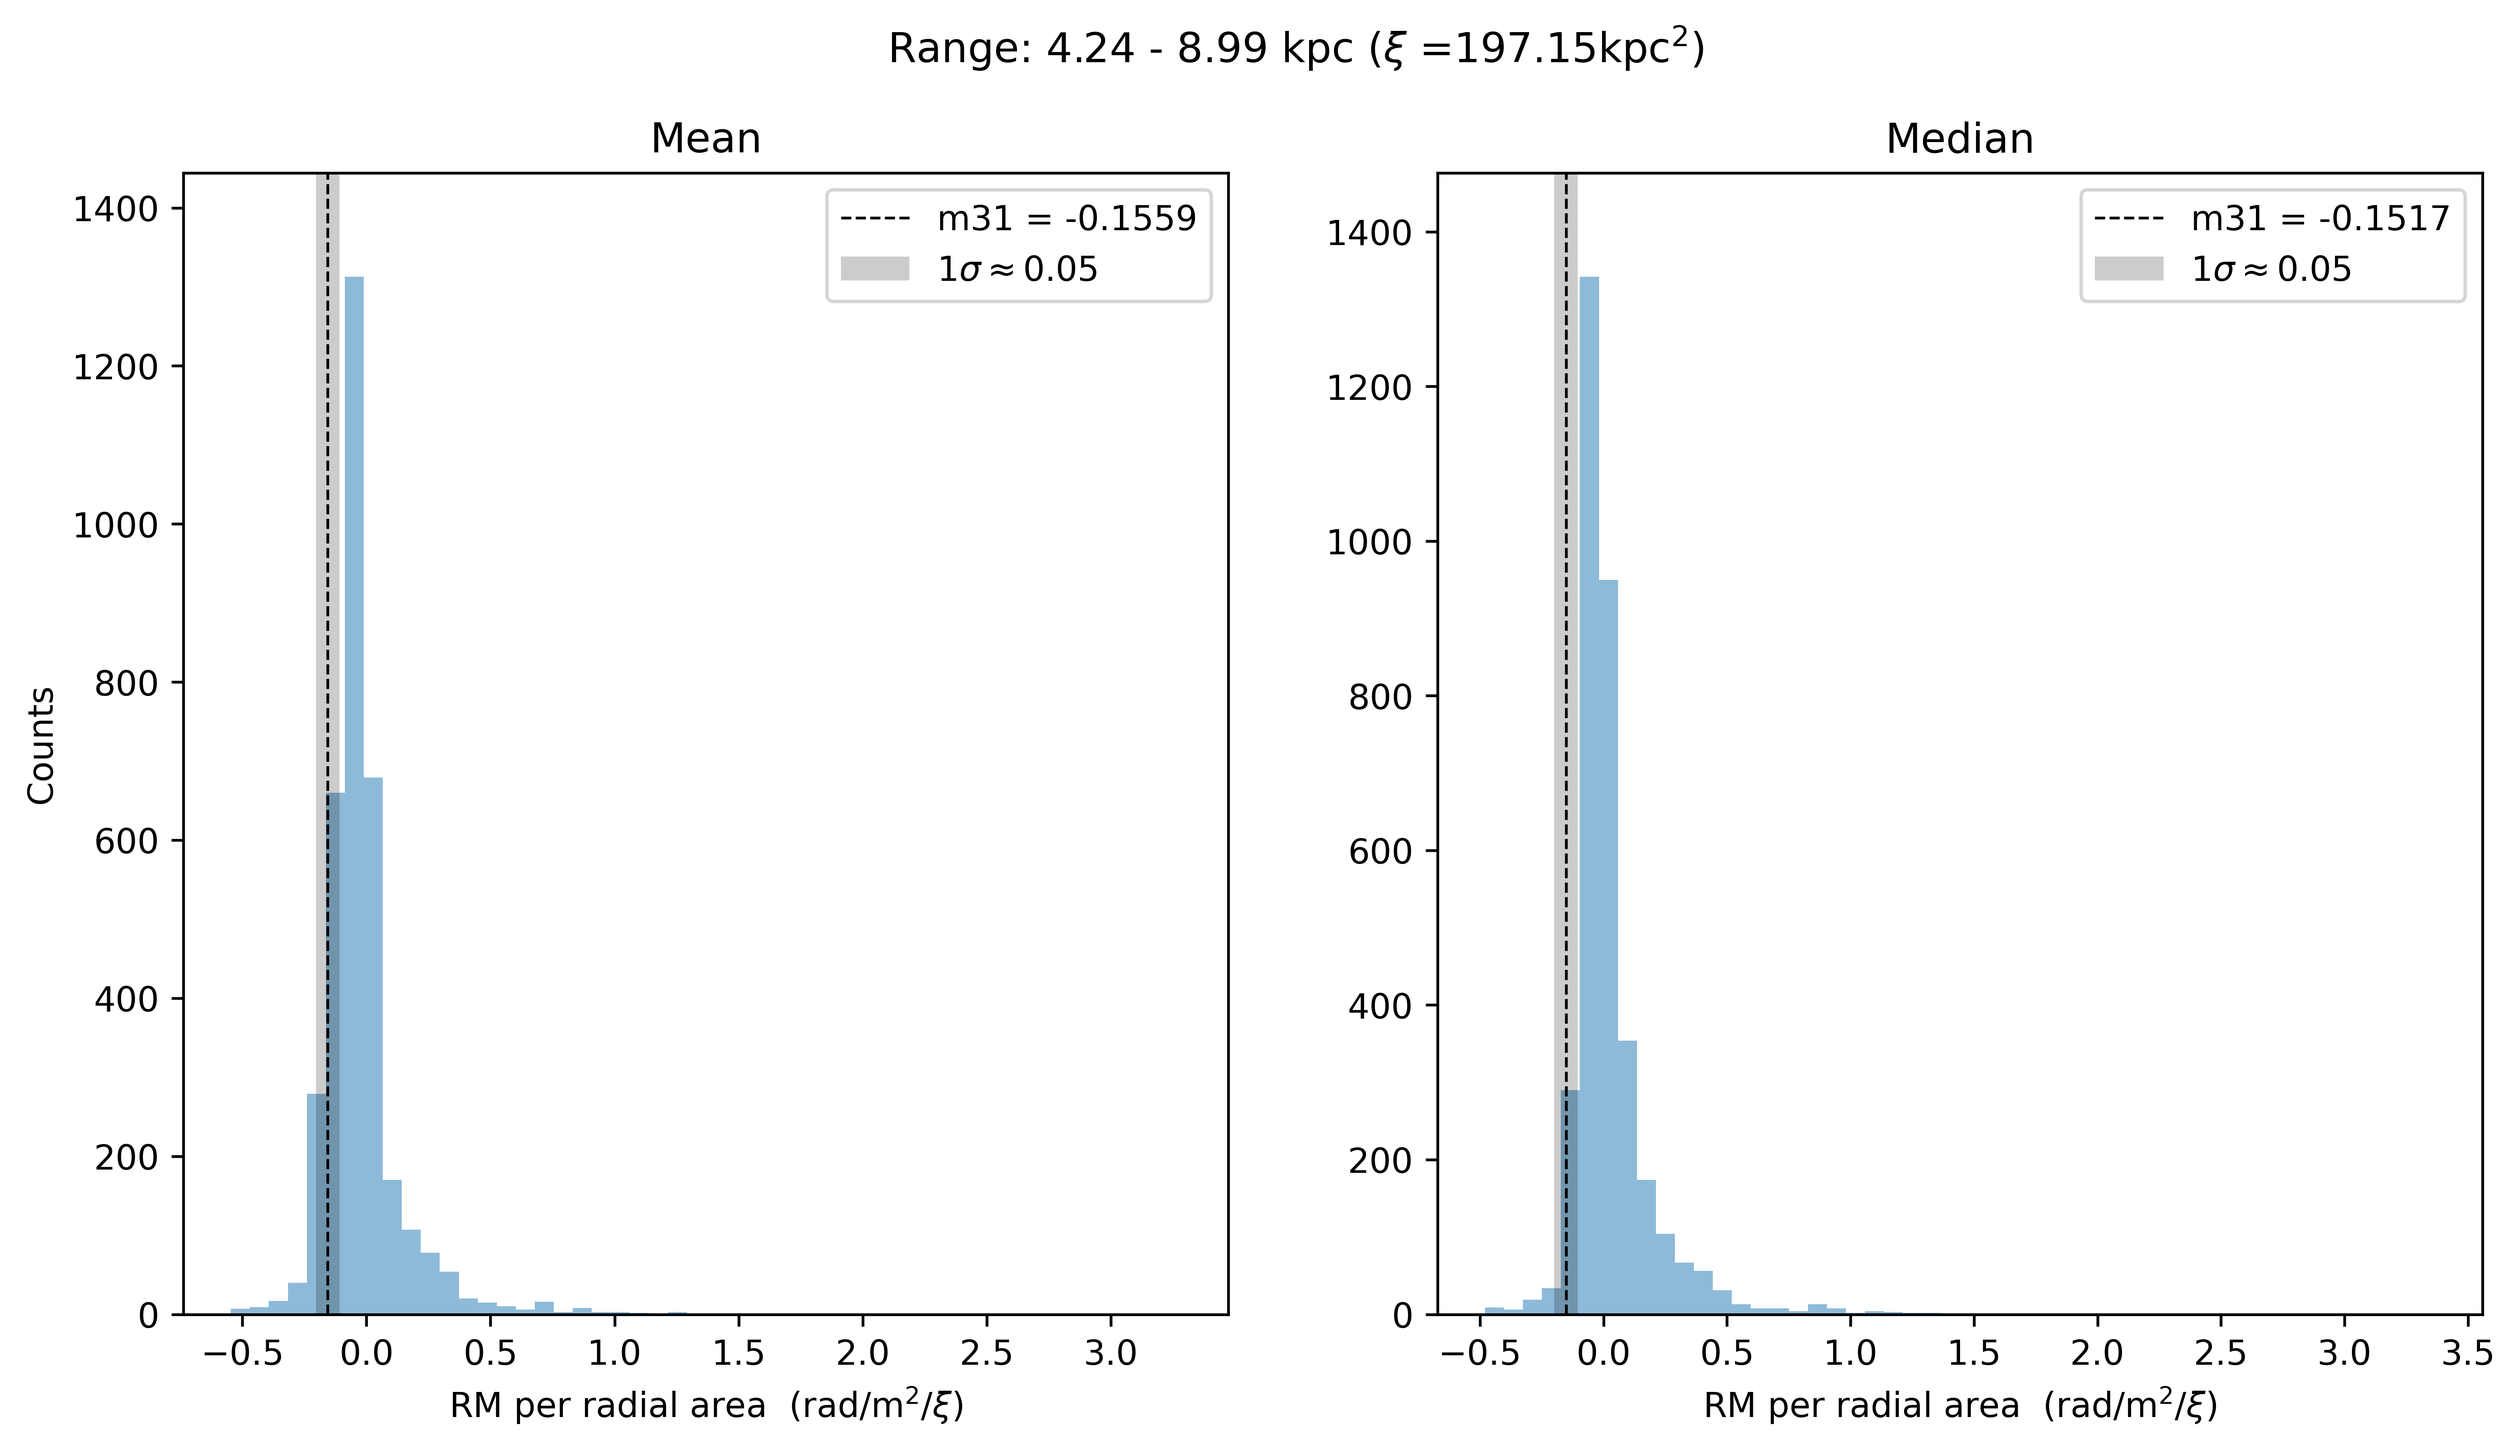
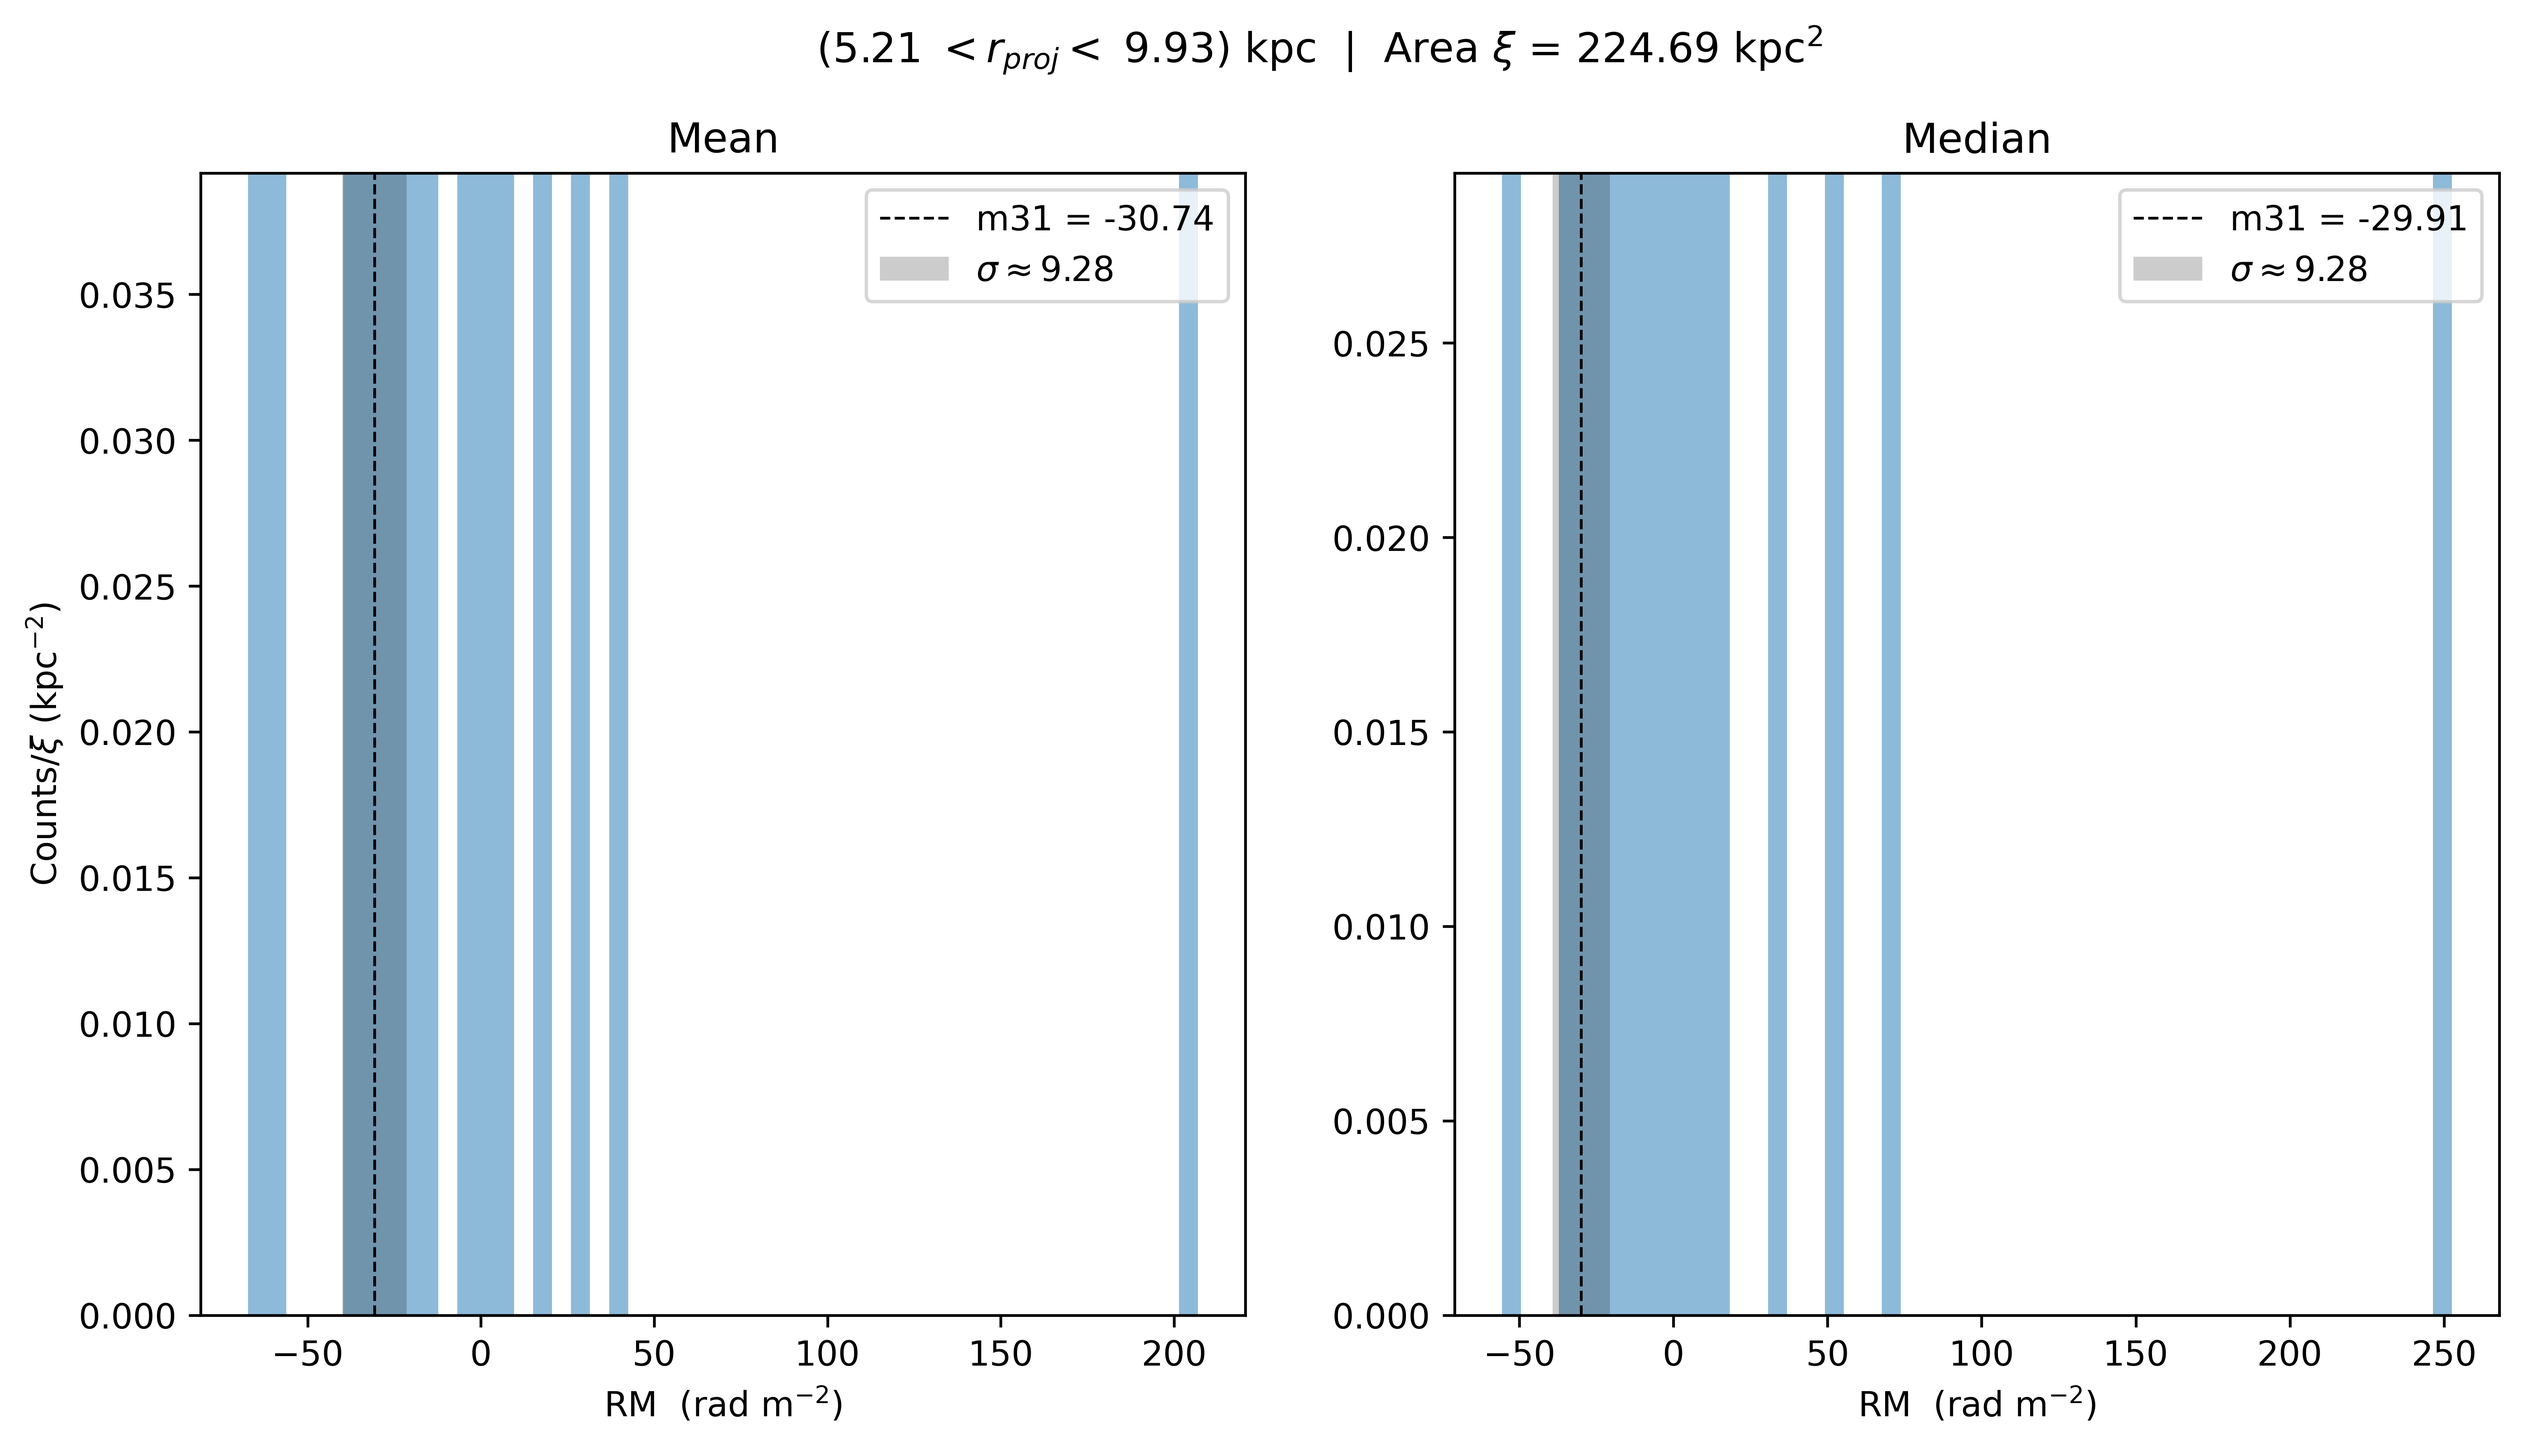
dividing counts by annulus area. Not the RM

diff --git a/M31_signal_vs_entire_sky.py b/M31_signal_vs_entire_sky.py
@@ -243,8 +243,8 @@ def annuli_analysis(save_plot=False, stack_indiv_patch=False):
         rm_per_annulus_median = {i: [] for i in range(1, len(bin_edges)+1)}  # Dictionary to store RM values for each bin (median)
 
         for i, bin_idx in enumerate(bin_indices):
-            rm_per_annulus_mean[bin_idx].append(rm_vals_flat_mean[i]/annul_area)  # Append RM values for mean to corresponding bin
-            rm_per_annulus_median[bin_idx].append(rm_vals_flat_median[i]/annul_area)  # Append RM values for median to corresponding bin
+            rm_per_annulus_mean[bin_idx].append(rm_vals_flat_mean[i])  # Append RM values for mean to corresponding bin
+            rm_per_annulus_median[bin_idx].append(rm_vals_flat_median[i])  # Append RM values for median to corresponding bin
 
         # Converting lists to numpy arrays for easier handling
         rm_per_annulus_mean = {k: np.array(v) for k, v in rm_per_annulus_mean.items() if len(v) > 0}
@@ -255,7 +255,7 @@ def annuli_analysis(save_plot=False, stack_indiv_patch=False):
         else: 
             annuli_to_plot = np.arange(0, bin_num_from_main+1)  # Adjusting annuli ranges based on bin edges (in kpc)
 
-        anul_dist_type = "deg" if stack_indiv_patch else "kpc"
+        annul_dist_type = "deg" if stack_indiv_patch else "kpc"
         b_m_1 = bin_means_m31 if stack_indiv_patch else bin_means_past_rvir
         b_m_2 = bin_med_m31 if stack_indiv_patch else bin_meds_past_rvir
         std = bin_std_m31 if stack_indiv_patch else bin_std_past_rvir #assuming same standard deviation
@@ -264,53 +264,61 @@ def annuli_analysis(save_plot=False, stack_indiv_patch=False):
         for bin_idx in annuli_to_plot:
             fig, axes = plt.subplots(1, 2, figsize=(12, 6))  # Create 1x2 subplot grid
             
-            x_axis_label = r" (rad/m$^{2}$/$\xi$)"
+            x_axis_label = r" (rad m$^{-2}$)"
             histbin = 50 #number of beans per histogram's RM-axis (x-axis)
             if bin_idx in rm_per_annulus_mean and bin_idx in rm_per_annulus_median:
 
-                # Plot for "Mean" subplot (left side)
-                counts, _, _ = axes[0].hist(rm_per_annulus_mean[bin_idx], bins=histbin, alpha=0.5)
+                # Plotting for "Mean" subplot (left side)
+                counts, _, patches_mean = axes[0].hist(rm_per_annulus_mean[bin_idx], bins=histbin, alpha=0.5)
                 axes[0].set_title("Mean")
-                axes[0].set_xlabel("RM per radial area " +  x_axis_label)
-                axes[0].set_ylabel("Counts")
+                axes[0].set_xlabel("RM " +  x_axis_label)
+                axes[0].set_ylabel("Counts" + r"/$\xi$" + f" ({annul_dist_type}"+ r"$^{-2}$)")
+                
+                #dividing Counts of Mean by Annulus Area
+                for p in patches_mean: p.set_height(p.get_height() / annul_area)
+                counts /= annul_area
                 axes[0].set_ylim(0, np.max(counts) * 1.1)
                 
-                # Plot for "Median" subplot (right side)
-                counts, _, _ = axes[1].hist(rm_per_annulus_median[bin_idx], bins=histbin, alpha=0.5)
+                # Plotting for "Median" subplot (right side)
+                counts, _, patches_med = axes[1].hist(rm_per_annulus_median[bin_idx], bins=histbin, alpha=0.5)
                 axes[1].set_title("Median")
-                axes[1].set_xlabel("RM per radial area " +  x_axis_label)
+                axes[1].set_xlabel("RM " +  x_axis_label)
                 # axes[1].set_ylabel("Counts")
+
+                #dividing Counts of Mean by Annulus Area
+                for p in patches_med: p.set_height(p.get_height() / annul_area)
+                counts /= annul_area
                 axes[1].set_ylim(0, np.max(counts) * 1.1)
 
                 # For M31 relative annulus (mean RM)
-                axes[0].axvline(x=b_m_1[bin_idx-1]/annul_area, 
-                                label=f"m31 = {b_m_1[bin_idx-1]/annul_area:.4f}", 
+                axes[0].axvline(x=b_m_1[bin_idx-1], 
+                                label=f"m31 = {b_m_1[bin_idx-1]:.2f}", 
                                 color='k', linestyle='--', linewidth=.8)
-                axes[1].axvline(x=b_m_2[bin_idx-1]/annul_area, 
-                                label=f"m31 = {b_m_2[bin_idx-1]/annul_area:.4f}", 
+                axes[1].axvline(x=b_m_2[bin_idx-1], 
+                                label=f"m31 = {b_m_2[bin_idx-1]:.2f}", 
                                 color='k', linestyle='--', linewidth=.8)
 
-                # Filling the region around the mean RM value within 1 sigma (mean RM)
+                #Filling the region around the mean RM value within 1 sigma (mean RM)
                 axes[0].fill_betweenx(
-                    y=np.linspace(0, 5000, 100),
-                    x1=(b_m_1[bin_idx-1] - std[bin_idx-1])/annul_area,
-                    x2=(b_m_1[bin_idx-1] + std[bin_idx-1])/annul_area,
+                    y=np.linspace(0, 100, 100),
+                    x1=(b_m_1[bin_idx-1] - std[bin_idx-1]),
+                    x2=(b_m_1[bin_idx-1] + std[bin_idx-1]),
                     color='k', alpha=0.2, edgecolor="none",
-                    label=r"$1\sigma \approx {:.2f}$".format(std[bin_idx-1]/annul_area)
+                    label=r"$\sigma \approx {:.2f}$".format(std[bin_idx-1])
                 )
-                # Filling the region around the median RM value within 1 sigma (median RM)
+                #Filling the region around the median RM value within 1 sigma (median RM)
                 axes[1].fill_betweenx(
-                    y=np.linspace(0, 5000, 100),
-                    x1=(b_m_2[bin_idx-1] - std[bin_idx-1])/annul_area,
-                    x2=(b_m_2[bin_idx-1] + std[bin_idx-1])/annul_area,
+                    y=np.linspace(0, 100, 100),
+                    x1=(b_m_2[bin_idx-1] - std[bin_idx-1]),
+                    x2=(b_m_2[bin_idx-1] + std[bin_idx-1]),
                     color='k', alpha=0.2, edgecolor="none",
-                    label=r"$1\sigma \approx {:.2f}$".format(std[bin_idx-1]/annul_area)
+                    label=r"$\sigma \approx {:.2f}$".format(std[bin_idx-1])
                 )
 
                 axes[0].legend(); axes[1].legend()
-                fig.suptitle(f"Range: {bin_edges[bin_idx-1]:.2f} - {bin_edges[bin_idx]:.2f} {anul_dist_type}" + r" ($\xi$" + f" ={annul_area:.2f}" + f"{anul_dist_type}" r"$^2$)")
+                fig.suptitle(f" ({bin_edges[bin_idx-1]:.2f}" + r" $< r_{proj} <$ " + f"{bin_edges[bin_idx]:.2f}) {annul_dist_type}" + r"  |  Area $\xi$" + f" = {annul_area:.2f} " + f"{annul_dist_type}" r"$^2$")
                 
-                # Save or display the figure
+                #Saving or displaying
                 if save_plot:
                     path = curr_dir_path() + "Results/"
                     plt.savefig(f"{path}annuli_plot_{bin_idx}.png", dpi=600, bbox_inches="tight")
@@ -318,7 +326,7 @@ def annuli_analysis(save_plot=False, stack_indiv_patch=False):
                 else:
                     plt.show()
 
-                # break #Testing out one plot
+                break #Testing out one plot
 
         if save_plot: 
             plt.close()  # Deleting the figure to clear memory
